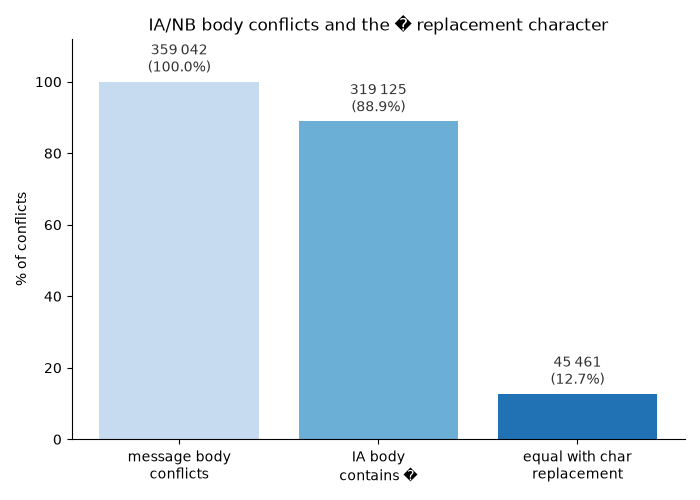
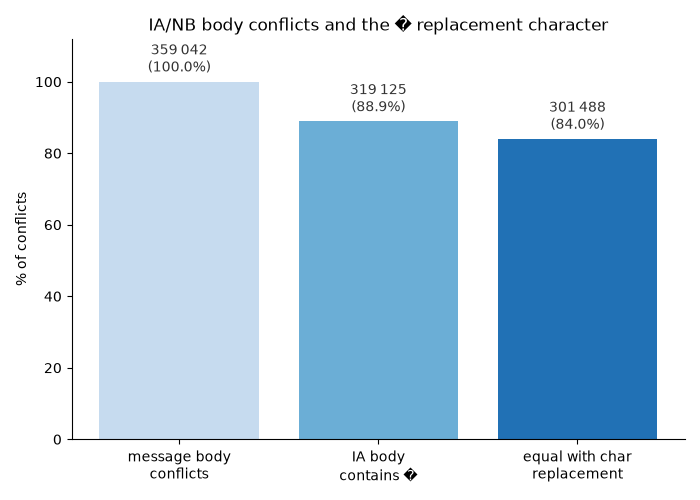
Whitespace normalize when comparing message bodies

Changed region(s): [[0.69, 0.18, 0.96, 0.81]]

diff --git a/src/usenet_no/replacement_chars.py b/src/usenet_no/replacement_chars.py
@@ -43,9 +43,24 @@ class NewsgroupReplacementCharCounts:
     equal_with_char_replacement: int
 
 
+def _normalize_whitespace(text: str) -> str:
+    """Collapse every run of whitespace to a single space and strip the ends.
+
+    Folds away the differences that come from the two archives reflowing or
+    re-wrapping the same text: trailing spaces, CRLF vs LF, blank-line runs.
+    """
+    return " ".join(text.split())
+
+
 def bodies_equal_with_char_replacement(nb_body: str, ia_body: str) -> bool:
-    """True when the bodies agree once æ/ø/å/Æ/Ø/Å (NB) and U+FFFD (IA) become "_"."""
-    return nb_body.translate(_NB_TABLE) == ia_body.translate(_IA_TABLE)
+    """True when the bodies agree once æ/ø/å/Æ/Ø/Å (NB) and U+FFFD (IA) become "_".
+
+    Whitespace is normalized on both sides first, so a difference in wrapping or
+    line endings does not count as a disagreement.
+    """
+    return _normalize_whitespace(nb_body.translate(_NB_TABLE)) == _normalize_whitespace(
+        ia_body.translate(_IA_TABLE)
+    )
 
 
 def _load_conflict_bodies(

diff --git a/tests/usenet_no/replacement_chars/test_bodies_equal_with_char_replacement.py b/tests/usenet_no/replacement_chars/test_bodies_equal_with_char_replacement.py
@@ -22,3 +22,10 @@ def test_replacement_char_where_nb_has_ascii_is_not_equal():
 
 def test_other_non_ascii_chars_are_not_replaced():
     assert not bodies_equal_with_char_replacement("café", "caf�")
+
+
+def test_whitespace_differences_are_ignored():
+    assert bodies_equal_with_char_replacement(
+        "Hei på\r\ndeg\n\n\n-- \n",
+        "Hei p�    deg\n-- ",
+    )
